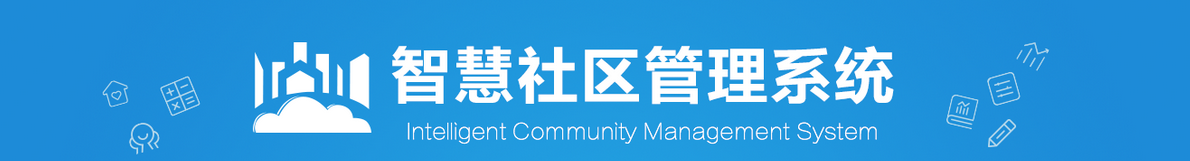
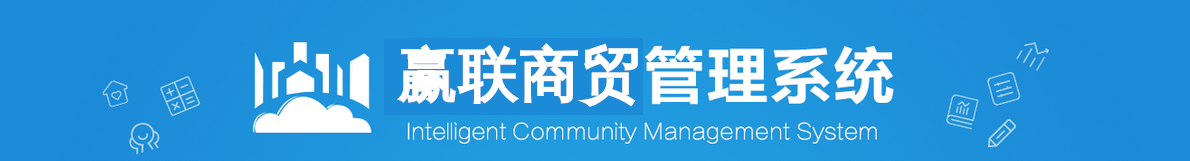
修改了主图的文件名为后面加上了uuid,修改了图标,修改了公司名称

Changed region(s): [[0.3109, 0.2795, 0.5597, 0.6522]]

diff --git a/src/routes/TArroundshopandservice/Info.js b/src/routes/TArroundshopandservice/Info.js
@@ -24,7 +24,7 @@ import {addobj, deleteobj, newoObj} from "../../services/api";
 
 const FormItem = Form.Item;
 const { Option } = Select;
-
+const UUID = require('uuidjs');
 const { TextArea } = Input;
 const DateFormat = 'YYYY-MM-DD';
 const url = 'TArroundshopandservice';
@@ -211,10 +211,10 @@ export default class DicManagerInfo extends Component {
           'info': info,
         },
       });
-      const imgKey = `arroundshopandservice${this.props.base.info.tArroundshopandserviceId || this.props.base.newInfo.tArroundshopandserviceId}.jpg`;
+      const imgKey = `arroundshopandservice-${this.props.base.info.tArroundshopandserviceId || this.props.base.newInfo.tArroundshopandserviceId}-${UUID.generate()}.jpg`;
       if(await uploadImg(file.fileList[0].originFileObj, imgKey)) {
         this.props.form.setFields({
-          mainpic: {value: webConfig.tpUriPre + imgKey}
+          mainpic: {value: webConfig.tpUriPre + imgKey},
         });
         console.log('上传成功');
       }else {

diff --git a/src/routes/TProduct/Info.js b/src/routes/TProduct/Info.js
@@ -24,7 +24,7 @@ import { FormValid } from '../../utils/FormValid';
 
 const FormItem = Form.Item;
 const { Option } = Select;
-
+const UUID = require('uuidjs');
 const { TextArea } = Input;
 const DateFormat = 'YYYY-MM-DD';
 const url = 'TProduct';
@@ -225,7 +225,7 @@ export default class DicManagerInfo extends Component {
           'info': info,
         },
       });
-			const imgKey = `tproduct_${this.props.base.info.tProductId || this.props.base.newInfo.tProductId}.jpg`;
+			const imgKey = `tproduct-${this.props.base.info.tProductId || this.props.base.newInfo.tProductId}-${UUID.generate()}.jpg`;
 			if(await uploadImg(file.fileList[0].originFileObj, imgKey)) {
         this.props.form.setFields({
           mainpic: {value: webConfig.tpUriPre + imgKey},

diff --git a/src/layouts/UserLayout.js b/src/layouts/UserLayout.js
@@ -19,7 +19,7 @@ class UserLayout extends React.PureComponent {
   getPageTitle() {
     const { routerData, location } = this.props;
     const { pathname } = location;
-    let title = `${webConfig.companyName}${webConfig.webName}管理系统-登录`;
+    let title = `${webConfig.webName}管理系统-登录`;
     if (routerData[pathname] && routerData[pathname].name) {
       title = `${routerData[pathname].name} - ${title}`;
     }

diff --git a/src/layouts/BasicLayout.js b/src/layouts/BasicLayout.js
@@ -86,7 +86,7 @@ class BasicLayout extends React.PureComponent {
     const { location } = this.props;
     const { routerData } = this.state;
     const { pathname } = location;
-    let title = `${webConfig.companyName}${webConfig.webName}管理系统`;
+    let title = `${webConfig.webName}管理系统`;
     if (routerData[pathname] && routerData[pathname].name) {
       title = `${routerData[pathname].name} - ${title}`;
     }

diff --git a/src/utils/Constant.js b/src/utils/Constant.js
@@ -24,7 +24,7 @@ export function geneImportColumn(column){
 export const webConfig = {
 	webName: '赢联商贸',
 	webPreName: 'cpzhsq',
-	companyName: '',
+	companyName: '赢联商贸',
 	Bucket: 'pet-1252596634',
   Region: 'ap-chengdu',
   tpUriPre: 'http://pet-1252596634.cos.ap-chengdu.myqcloud.com/',
